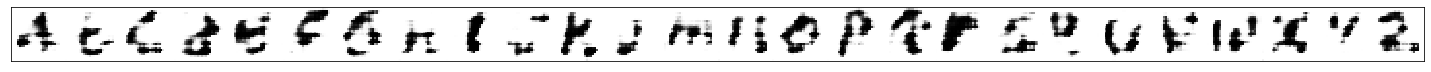
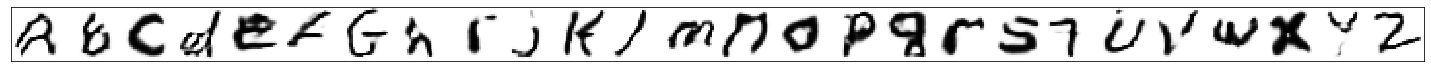
EMNIST still facing mode collapse...

Changed region(s): [[0.0, 0.1111, 1.0, 0.8056], [0.7687, 0.1389, 0.7994, 0.1667]]

diff --git a/mnist-gan.py b/mnist-gan.py
@@ -15,7 +15,7 @@ from tensorflow.keras.utils import plot_model
 import matplotlib.pyplot as mp
 
 ##### WHICH DATA LOADER TO USE
-dataset = 'mnist'
+dataset = 'emnist'
 
 if dataset == 'mnist':
     from keras.datasets.mnist import load_data
@@ -28,10 +28,10 @@ elif dataset == 'emnist':
 # %% CONSTANTS
 ################################################################################
 
-EPOCHS = 30
+EPOCHS = 5
 BATCH_SIZE = 128
 IMG_SHP = (28, 28, 1)
-CAT_SHP = 10
+CAT_SHP = 62
 LAT_SHP = 100
 
 ################################################################################
@@ -102,7 +102,7 @@ def build_generator(LAT_SHP, CAT_SHP):
     net = Dropout(0.4)(net)
 
     ##### OUTPUT IMAGE
-    output = Conv2D(1, (7, 7), activation='sigmoid', padding='same')(net)
+    output = Conv2D(1, (7, 7), activation='tanh', padding='same')(net)
 
     ##### BUILD MODEL (COMPILATION IN GAN MODEL)
     model = Model(inputs = [input1, input2], outputs = output)
@@ -114,13 +114,26 @@ def build_generator(LAT_SHP, CAT_SHP):
 ################################################################################
 
 def build_gan(d_model, g_model):
+
+    ##### ONLY GENERATOR SHOULD BE TRAINED BASED ON DISCRIMINATOR OUTPUT
     d_model.trainable = False
+
+    ##### NUMBER OF CLASSES TO COVER
     input1 = Input(CAT_SHP)
+
+    ##### FILL REMAINDER WITH RANDOM NOISE
     input2 = Input(LAT_SHP-CAT_SHP)
+
+    ##### PREDICT IMAGE
     layer1 = g_model([input1, input2])
+
+    ##### DISCRIMINATE IMAGE
     output = d_model(layer1)
+
+    ##### BUILD MODEL AND COMPILE
     model = Model(inputs = [input1, input2], outputs = output)
-    model.compile(loss=['binary_crossentropy', 'categorical_crossentropy'], optimizer=Adam(beta_1=0.5))
+    model.compile(loss=['binary_crossentropy', 'categorical_crossentropy'], optimizer=Adam(lr=0.0002, beta_1=0.5))
+
     return model
 
 ################################################################################
@@ -163,6 +176,24 @@ for epoch in range(EPOCHS):
     y = y[idx]
     """
 
+    minlen = 999999
+    cats = len(np.unique(y))
+
+    for i in range(cats):
+        idx = np.where(y == i)[0]
+        minlen = min(len(idx), minlen)
+
+    X_new = np.zeros((minlen*cats, 28, 28), dtype=int)
+    y_new = np.zeros((minlen*cats,), dtype=int)
+
+    for i in range(cats):
+        idx = np.where(y == i)[0]
+        X_new[i*minlen:(i+1)*minlen] = X[idx[0:minlen]]
+        y_new[i*minlen:(i+1)*minlen] = y[idx[0:minlen]]
+
+    X = X_new
+    y = y_new
+
     ##### SHUFFLE DATA
     idx = np.random.permutation(len(X))
     X = X[idx]
@@ -180,7 +211,7 @@ for epoch in range(EPOCHS):
     for batch in range(BATCHES):
 
         ##### GENERATE REAL BATCH DATA
-        X_real = X[:BATCH_SIZE, :, :, np.newaxis]/255
+        X_real = X[:BATCH_SIZE, :, :, np.newaxis]/127.5-1.0
         y_real = y[:BATCH_SIZE]
         y_real_oh = np.zeros((BATCH_SIZE, CAT_SHP), dtype=int)
         y_real_oh[np.arange(BATCH_SIZE), y_real] = 1
@@ -284,6 +315,7 @@ gan_model.save('gan_model.h5')
 
 fig = mp.figure(figsize=(CAT_SHP, 1))
 input_string = np.arange(CAT_SHP)
+input_string = [0,1,2,10,11,12,36,37,38,39]
 X_in_p = np.zeros((len(input_string), CAT_SHP))
 X_in_p[np.arange(len(input_string)), input_string] = 1
 X_in_r = np.random.randn(len(input_string), LAT_SHP-CAT_SHP)

diff --git a/matlab/loader.py b/matlab/loader.py
@@ -11,8 +11,8 @@ from scipy.io import loadmat
 
 def load_data():
     ##### LOAD REAL EMNIST LETTERS DATA
-    data = loadmat('matlab/emnist-letters.mat')
-    #data = loadmat('drive/My Drive/Data/emnist-letters.mat')
+    data = loadmat('matlab/emnist-byclass.mat')
+    #data = loadmat('drive/My Drive/Data/emnist-byclass.mat')
     X_train = data['dataset'][0][0][0][0][0][0]
     y_train = data['dataset'][0][0][0][0][0][1]
     X_test = data['dataset'][0][0][1][0][0][0]

diff --git a/README.md b/README.md
@@ -1,6 +1,6 @@
-# E/F/MNIST-GAN
+# E/F/MNIST-AC-GAN
 
-This project explores the possibility of using a GAN network to not only generate realistic imitation images for a specific data source, but also define features this imitation should have. Although other methods exist to realize this type of model, a AC-GAN (Auxiliary Classifier GAN) has been implemented.
+This project explores the possibility of using a GAN network to not only generate realistic imitation images for a specific data source, but also define features this imitation should have. Although other methods exist to realize this type of model, a [AC-GAN (Auxiliary Classifier GAN)](https://arxiv.org/abs/1610.09585) has been implemented.
 
 ## GAN
 
@@ -8,16 +8,26 @@ Generative-Adversarial-Networks are a method of semi-supervised learning.
 Within a GAN network two neural networks work against each other:
 
 1. a discriminator NN, which tries to determine if a randomly given sample is
-real or not
+real or produced by the generator
 2. a generator NN, which tries to create images that pass the discriminators test
 
 Through each training cycle the discriminator is given real and fake data,
 in order to distinguish between them. The generator is then trained on a random
-latent input to produce images that the discriminator is tested on.
+latent input to produce images that the discriminator is tested on. By continuously refining both models weights, the generator is able to produce images that can be (almost) indistinguishable from the real dataset.
+
+The focus of a classical GAN architecture is on the creation of realisitic imitation images, but no control of the image content is given a priory. The AC-GAN adds an additional input component to the generator, namely what class to produce. The discriminator then not only predicts if a sample is real or not, but also what class the sample belongs to.
 
 ## Auxiliary Classifier GAN Model
 
-The model utilizes LeakyReLU activation functions and a dropout of 40% per CNN layer. Especially within the discriminator, a batch normalization decreases accuracy convergence significantly.
+The goal of the model is to reduce the computational footprint as much as possible in a first attempt. The image generation starts from a latent space vector of shape 100, and upsamples a 7x7 image twice to reach 28x28.
+
+The discriminator is roughly the reversed equivalent, downsampling by a stride of 2 from 28x28 through 14x14 to 7x7 before making an estimate on realness and class.
+
+The models utilize LeakyReLU activation functions and a dropout of 40% per CNN layer. Especially within the discriminator, a batch normalization decreases accuracy convergence significantly.
+
+More implemented features:
+1. A `tanh` activation is used in the last step of the generator
+1. Label smoothing is applied (0.9 for real, -0.9 for fake)
 
 Generator Model      | Discriminator Model
 :-------------------:|:-------------------:
@@ -108,7 +118,7 @@ real data:
 
 ![real data](img/mnist-real.png)
 
-generated data after 5/30/50 epochs:
+generated data after 5/30/50/100 epochs:
 
 ![5 epochs](img/mnist-5.png "5 epochs of training")
 ![30 epochs](img/mnist-30.png "30 epochs of training")
@@ -127,7 +137,7 @@ real data:
 
 ![real data](img/fmnist-real.png)
 
-generated data after 5/30/100 epochs:
+generated data after 5/30/50/100 epochs:
 
 ![5 Epochs](img/fmnist-5.png "5 epochs of training")
 ![30 epochs](img/fmnist-30.png "30 epochs of training")
@@ -136,16 +146,47 @@ generated data after 5/30/100 epochs:
 
 ## Extended-MNIST
 
-The E-MNIST dataset is the original dataset the MNIST-digits set was originally derived from. There are multiple versions of the dataset available that contain digits, letters in lower and upper case. The full dataset, `emnist-byclass` contains a total of 62 classes (10 digits, 26 lower-case letter and 26 upper-case letters). This dataset is not balanced though with a lowest to highest number of sample ratio of ...
+The E-MNIST dataset is the original dataset the MNIST-digits set was originally derived from. There are multiple versions of the dataset available that contain digits, letters in lower and upper case. The full dataset, `emnist-byclass` contains a total of 62 classes (10 digits, 26 lower-case letter and 26 upper-case letters). This dataset is not balanced though with a lowest to highest number of sample ratio of over 10.
+
+A balanced dataset of `letters` only is also available, containing 26 classes of merged capital and lower-case letters. Both dataset are being considered.
+
+### Letters Dataset
+
+The letters dataset combines lower and upper case letters into the same class. Although the set is balanced, an obvious issue arises. Some letters differ significantly in their writing between upper and lower case. Although the GAN is able to produce clean letters, some are practically illegible (e.g. upper and lower-case `Q/q`).
 
 ![loss history](img/emnist-loss.png "loss history for 30 epochs")
 
 real data (random order):
 ![real data](img/emnist-real.png)
 
-generated data after 5/30/100 epochs:
+generated data after 5/30/50/100 epochs:
 ![5 Epochs](img/emnist-5.png "5 epochs of training")
 ![30 epochs](img/emnist-30.png "30 epochs of training")
+![50 epochs](img/emnist-50.png "50 epochs of training")
 ![100 Epochs](img/emnist-100.png "100 epochs of training")
 
-## References
+### ByClass Dataset
+
+Even though the dataset `ByClass` is unbalanced, each letter is captured in upper and lower-case writing style.
+
+This dataset experiences mode collapse!
+
+![loss history](img/emnist-class-loss.png "loss history for 30 epochs")
+
+real data (random order):
+![real data](img/emnist-class-real.png)
+
+generated data after 5/30/50/100 epochs:
+![5 Epochs](img/emnist-class-5.png "5 epochs of training")
+![30 epochs](img/emnist-class-30.png "30 epochs of training")
+![50 epochs](img/emnist-class-50.png "50 epochs of training")
+![100 Epochs](img/emnist-class-100.png "100 epochs of training")
+
+## References/Resources
+
+* [Fashion MNIST Dataset](https://research.zalando.com/welcome/mission/research-projects/fashion-mnist/)
+* [Zalando Research - FMINST](https://research.zalando.com/welcome/mission/research-projects/fashion-mnist/)
+* [FMNIST Github](https://github.com/zalandoresearch/fashion-mnist)
+* [EMNIST Dataset](https://www.nist.gov/itl/products-and-services/emnist-dataset)
+* [EMNIST Paper](https://arxiv.org/abs/1702.05373v1)
+* [AC-GAN Paper](https://arxiv.org/abs/1610.09585)
